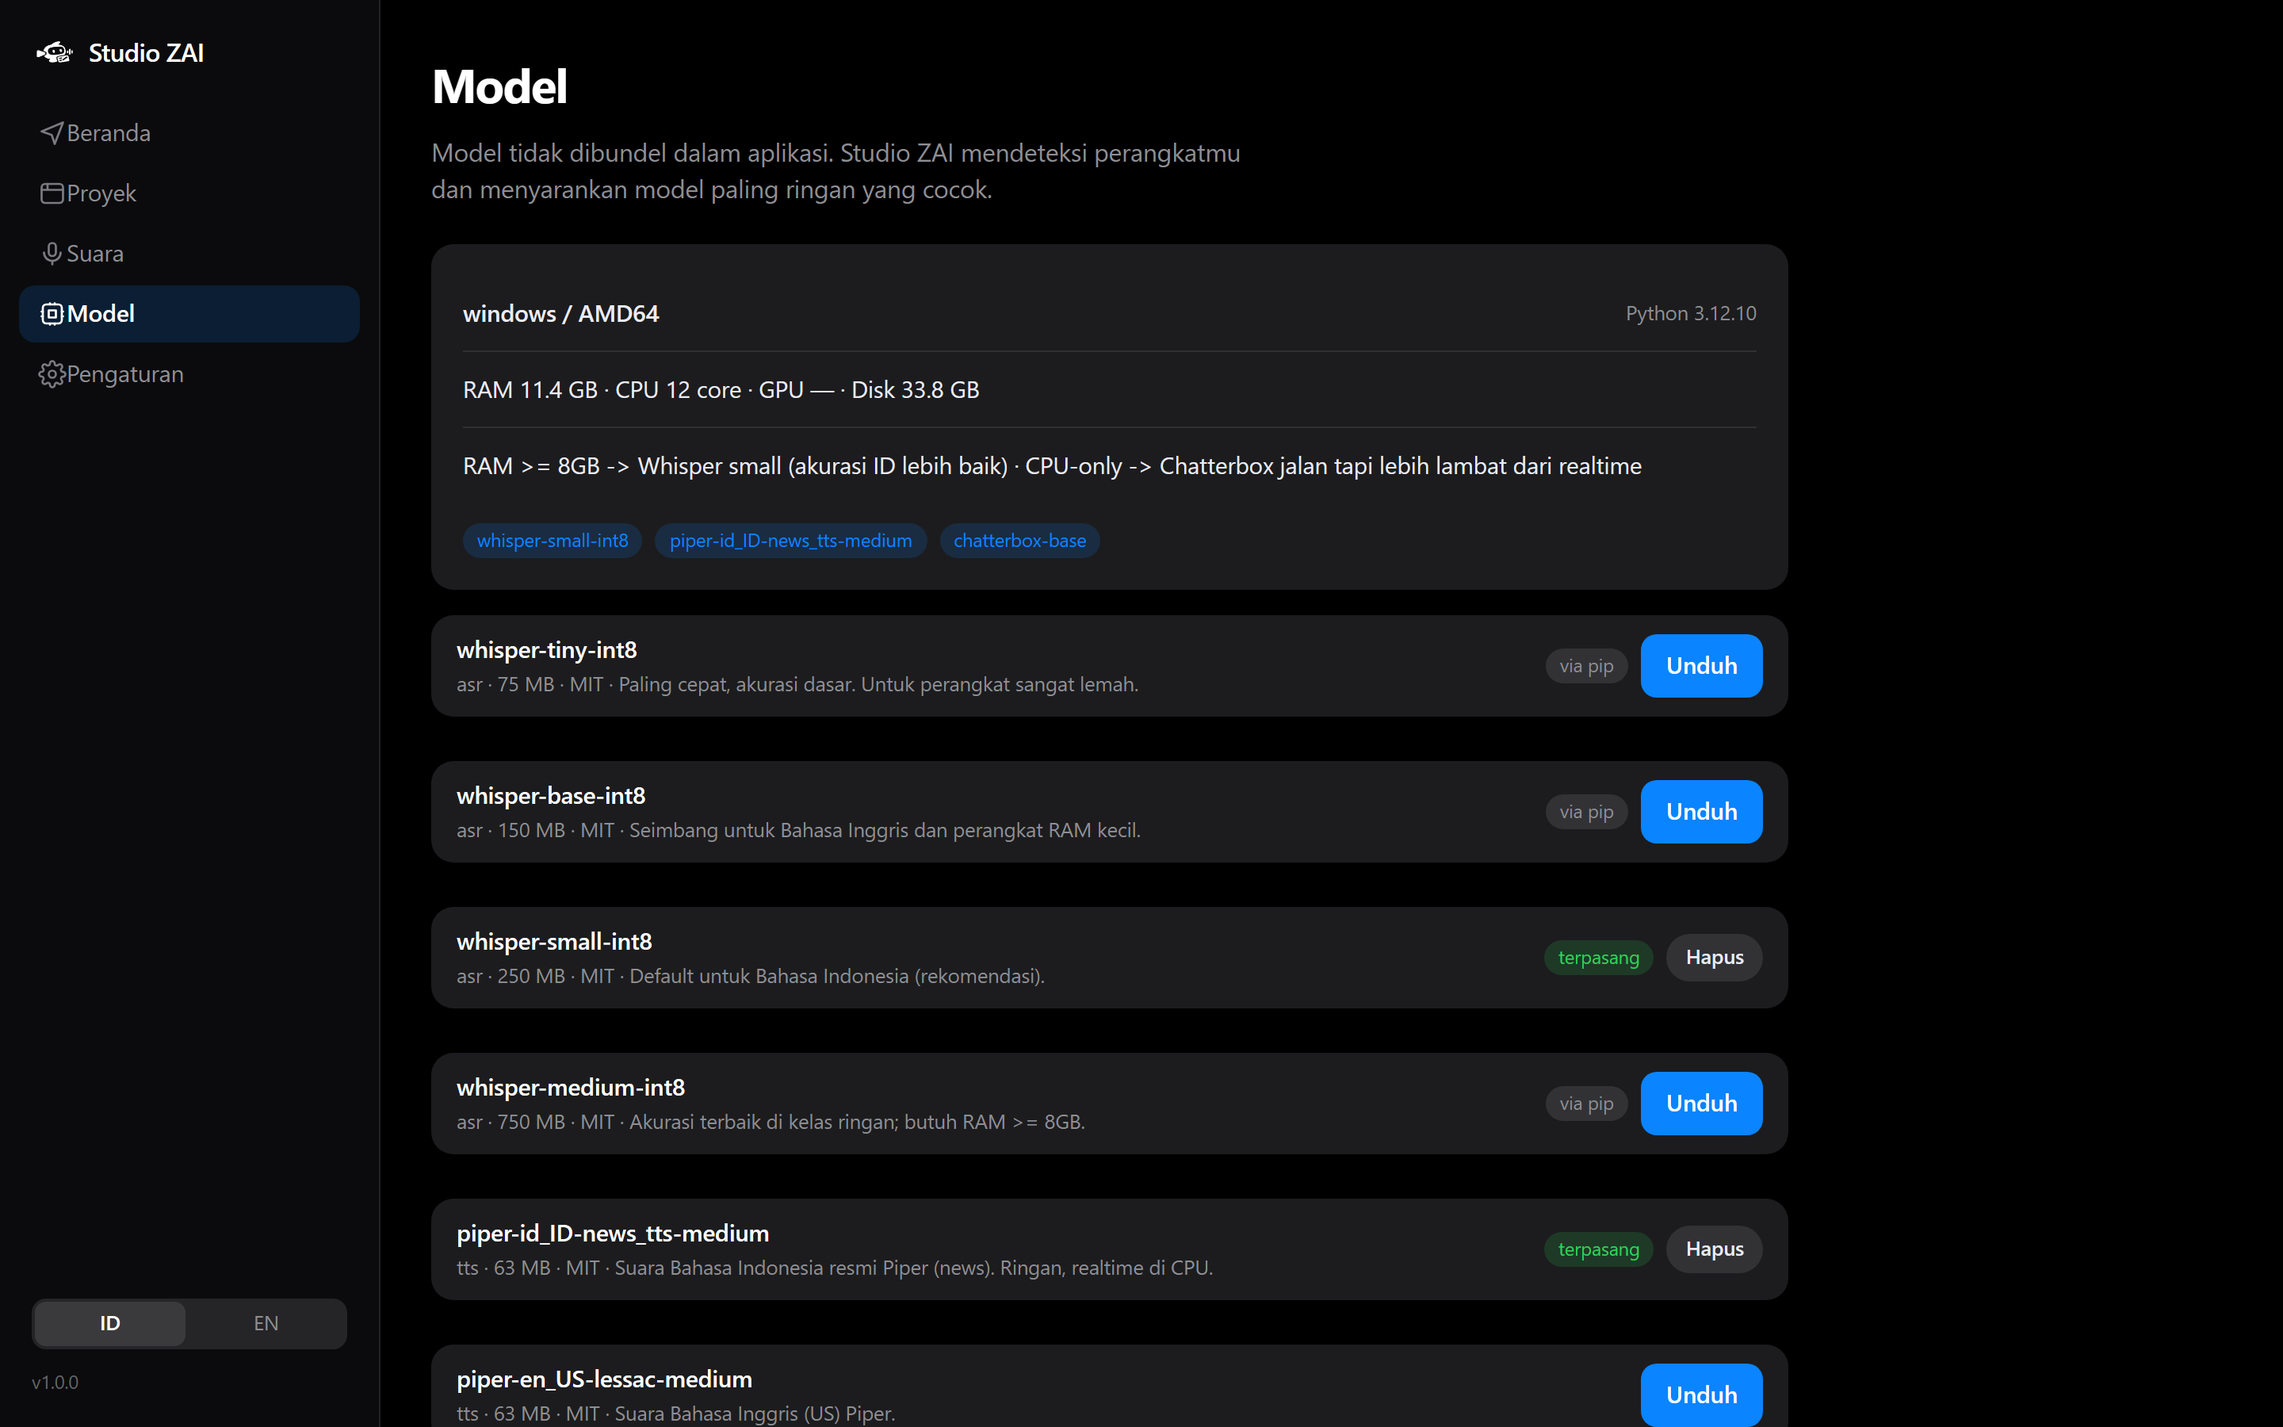
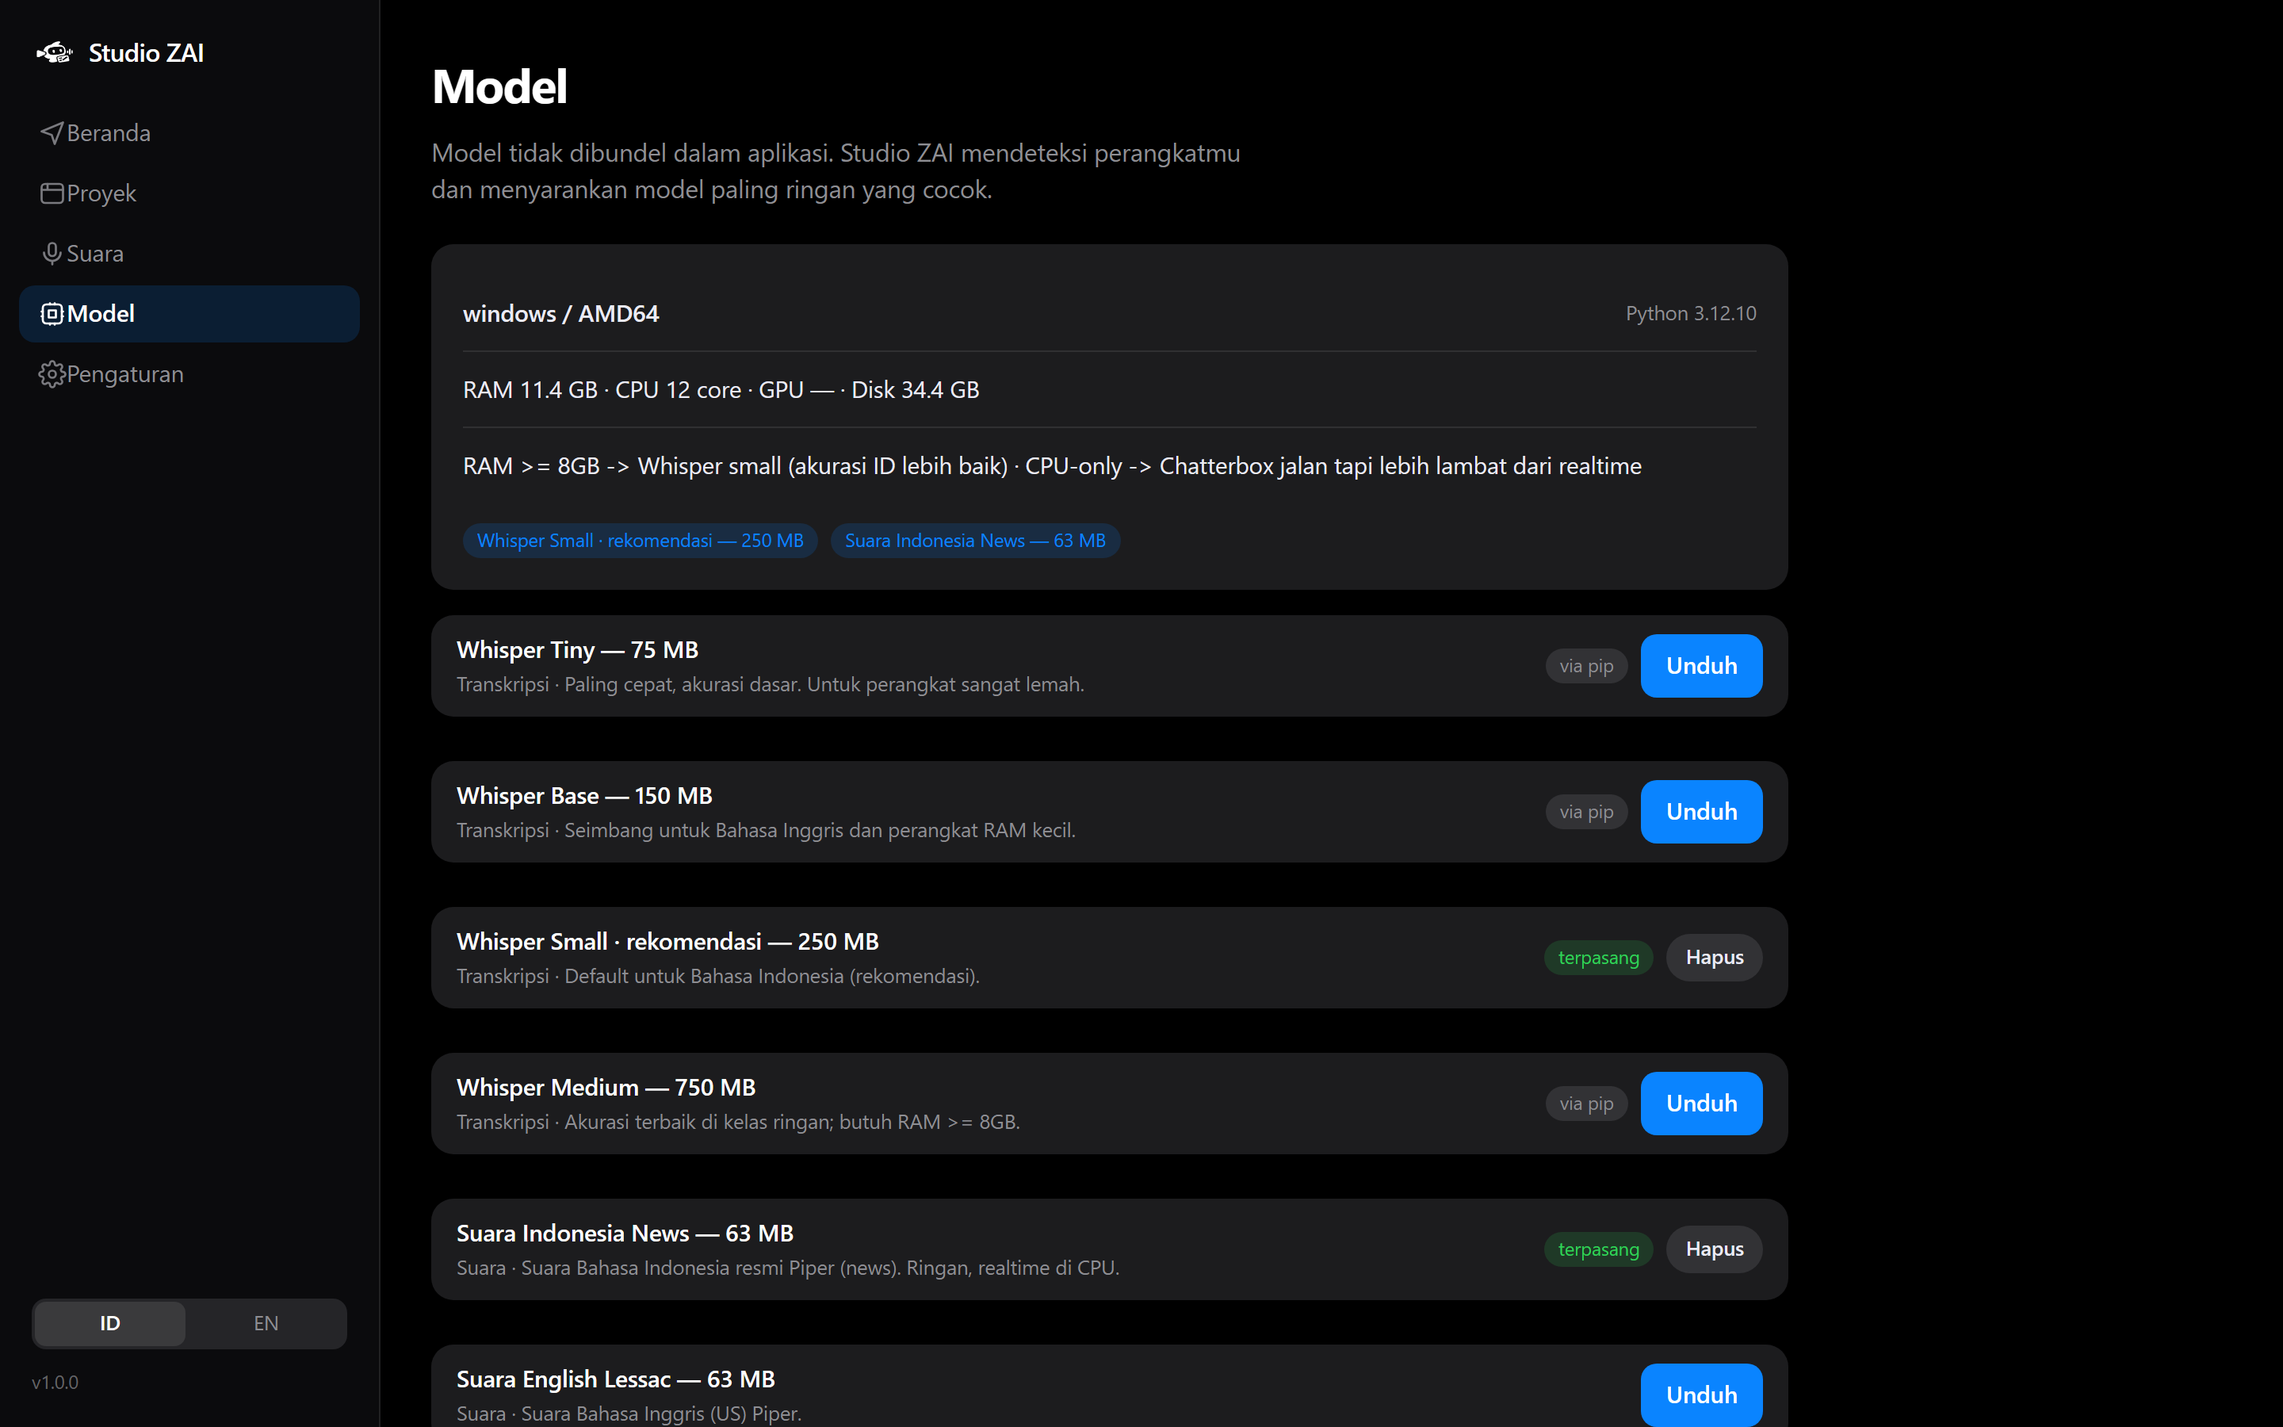
UI tanpa emoji + nama model natural + build fix

diff --git a/ui/app.js b/ui/app.js
@@ -22,6 +22,8 @@ const I18N = {
     "models.title": "Model",
     "models.lead": "Model tidak dibundel dalam aplikasi. Studio ZAI mendeteksi perangkatmu dan menyarankan model paling ringan yang cocok.",
     "models.download": "Unduh", "models.remove": "Hapus", "models.installed": "terpasang", "models.pip": "via pip",
+    "models.recommended": "rekomendasi",
+    "models.kindAsr": "Transkripsi", "models.kindTts": "Suara", "models.kindClone": "Kloning suara",
     "settings.title": "Pengaturan", "settings.lang": "Bahasa antarmuka", "settings.asr": "Model transkripsi default",
     "settings.tts": "Suara Indonesia default", "settings.clone": "Model kloning default", "settings.crop": "Mode crop default",
     "settings.cookies": "cookies.txt (opsional, untuk video privat)",
@@ -57,6 +59,8 @@ const I18N = {
     "models.title": "Models",
     "models.lead": "Models are not bundled. Studio ZAI detects your device and recommends the lightest matching models.",
     "models.download": "Download", "models.remove": "Remove", "models.installed": "installed", "models.pip": "via pip",
+    "models.recommended": "recommended",
+    "models.kindAsr": "Transcription", "models.kindTts": "Voice", "models.kindClone": "Voice cloning",
     "settings.title": "Settings", "settings.lang": "Interface language", "settings.asr": "Default transcription model",
     "settings.tts": "Default Indonesian voice", "settings.clone": "Default cloning model", "settings.crop": "Default crop mode",
     "settings.cookies": "cookies.txt (optional, for private videos)",
@@ -311,7 +315,7 @@ function showLinkPreview(info) {
   box.innerHTML = `
     <div class="row settings">
       <div style="display:grid;gap:2px;min-width:0">
-        <span style="font-weight:600">✓ ${t("home.linkReady")}</span>
+        <span style="font-weight:600"><svg class="ico" viewBox="0 0 24 24" fill="none" stroke="currentColor" stroke-width="2.4" stroke-linecap="round" stroke-linejoin="round" style="width:14px;height:14px;vertical-align:-2px"><path d="M20 6 9 17l-5-5"/></svg> ${t("home.linkReady")}</span>
         <span class="muted">${info.title} · ${fmtDuration(info.duration)}${info.uploader ? " · " + info.uploader : ""}</span>
       </div>
     </div>`;
@@ -323,7 +327,7 @@ function showLinkError(message) {
   wrap.style.display = "flex";
   $("#qualityWrap").style.display = "none";
   linkInfoCache = null;
-  box.innerHTML = `<span class="muted">✗ ${t("home.linkFail")}: ${message}</span>`;
+  box.innerHTML = `<span class="muted"><svg class="ico" viewBox="0 0 24 24" fill="none" stroke="currentColor" stroke-width="2.2" stroke-linecap="round" style="width:14px;height:14px;vertical-align:-2px"><circle cx="12" cy="12" r="9"/><path d="M12 8v4M12 16h.01"/></svg> ${t("home.linkFail")}: ${message}</span>`;
 }
 
 function hideLinkPreview() {
@@ -344,7 +348,7 @@ function onSourceChanged() {
     wrap.style.display = "flex";
     $("#qualityWrap").style.display = "none";
     linkInfoCache = null;
-    box.innerHTML = `<span class="muted">✓ ${t("home.localReady")}: ${fileName(value)}</span>`;
+    box.innerHTML = `<span class="muted"><svg class="ico" viewBox="0 0 24 24" fill="none" stroke="currentColor" stroke-width="2.4" stroke-linecap="round" stroke-linejoin="round" style="width:14px;height:14px;vertical-align:-2px"><path d="M20 6 9 17l-5-5"/></svg> ${t("home.localReady")}: ${fileName(value)}</span>`;
     return;
   }
   // debounce 800ms supaya tidak request tiap ketikan
@@ -657,10 +661,17 @@ function closePanel() {
 
 /* ------------------------------------------------------------------ voice */
 
+function voiceLabel(id) {
+  const fake = { id, size_mb: null, note: "", langs: [] };
+  if (id.includes("id_ID")) fake.langs = ["id"];
+  else if (id.includes("en_")) fake.langs = ["en"];
+  return modelName(fake);
+}
+
 function renderVoice() {
   const select = $("#ttsVoice");
   const available = state.voices.piper || [];
-  select.innerHTML = available.map((id) => `<option value="${id}">${id}</option>`).join("");
+  select.innerHTML = available.map((id) => `<option value="${id}">${voiceLabel(id)}</option>`).join("");
   select.disabled = available.length === 0;
   const ttsBtn = $("#ttsBtn");
   if (ttsBtn) {
@@ -704,11 +715,40 @@ async function runClone() {
 
 /* ------------------------------------------------------------------ models */
 
+/* Nama tampilan natural untuk id teknis model (tanpa underscore/dash = no AI slop) */
+function modelName(model) {
+  const id = model.id || "";
+  const size = model.size_mb ? ` · ${model.size_mb} MB` : "";
+  if (id.startsWith("whisper-")) {
+    const tierName = id.replace("whisper-", "").replace("-int8", "");
+    const label = { tiny: "Tiny", base: "Base", small: "Small", medium: "Medium" }[tierName] || tierName;
+    const rec = /indonesia/i.test(model.note || "") ? ` · ${t("models.recommended")}` : "";
+    return `Whisper ${label}${rec}${size ? ` — ${model.size_mb} MB` : ""}`;
+  }
+  if (id.startsWith("piper-")) {
+    const lang = (model.langs || [])[0] === "id" ? "Indonesia" : (model.langs || [])[0] === "en" ? "English" : "";
+    const voice = id.includes("news_tts") ? "News" : id.includes("lessac") ? "Lessac" : id.includes("alba") ? "Alba" : "";
+    return `Suara ${lang}${voice ? ` ${voice}` : ""} — ${model.size_mb ?? "?"} MB`;
+  }
+  if (id === "chatterbox-base") return `Kloning Suara EN — ${model.size_mb ?? "?"} MB`;
+  if (id === "chatterbox-id-finetune") return `Kloning Suara Indonesia — ${model.size_mb ?? "?"} MB`;
+  if (id === "zipvoice-zh-en") return `Kloning Ringan EN — ${model.size_mb ?? "?"} MB`;
+  if (id === "chatterbox-gguf-q4") return `Kloning Eksperimental — ${model.size_mb ?? "?"} MB`;
+  if (id === "mms-tts-ind") return `Suara Indonesia Alternatif — ${model.size_mb ?? "?"} MB`;
+  return `${id}${size}`;
+}
+
+function kindName(kind) {
+  return kind === "asr" ? t("models.kindAsr") : kind === "tts" ? t("models.kindTts") : t("models.kindClone");
+}
+
 async function renderModels() {
   try {
     const data = await api("/api/models");
     const hardware = data.hardware;
     const tier = data.tier;
+    const asrRec = (data.models || []).find((m) => m.id === tier.asr);
+    const ttsRec = (data.models || []).find((m) => m.id === tier.tts);
     $("#hardwareCard").innerHTML = `
       <div class="row settings" style="border-bottom:1px solid var(--separator)">
         <span style="font-weight:600">${hardware.os} / ${hardware.arch}</span>
@@ -721,16 +761,15 @@ async function renderModels() {
         <span class="muted">${tier.reasons.join(" · ")}</span>
       </div>
       <div class="row" style="gap:var(--s2);margin-top:var(--s3)">
-        <span class="badge info">${tier.asr}</span>
-        <span class="badge info">${tier.tts}</span>
-        ${tier.clone ? `<span class="badge info">${tier.clone}</span>` : ""}
+        ${asrRec ? `<span class="badge info">${modelName(asrRec)}</span>` : ""}
+        ${ttsRec ? `<span class="badge info">${modelName(ttsRec)}</span>` : ""}
       </div>`;
     $("#modelList").innerHTML = data.models.map((model) => `
       <div class="card tight">
         <div class="row settings">
           <div style="display:grid;gap:2px;min-width:0">
-            <span style="font-weight:600">${model.id}</span>
-            <span class="muted">${model.kind} · ${model.size_mb ?? "?"} MB · ${model.license}${model.note ? " · " + model.note : ""}</span>
+            <span style="font-weight:600">${modelName(model)}</span>
+            <span class="muted">${kindName(model.kind)}${model.note ? " · " + model.note : ""}</span>
           </div>
           <div class="row" style="gap:var(--s2)">
             ${model.installed ? `<span class="badge ok">${t("models.installed")}</span>` : (model.requires_pip ? `<span class="badge">${t("models.pip")}</span>` : "")}
@@ -762,12 +801,17 @@ async function renderSettings() {
   if (!state.voices.piper) await loadVoices();
   const settings = state.settings;
   $("#setLang").value = state.lang;
-  $("#setAsr").innerHTML = ["whisper-tiny-int8", "whisper-base-int8", "whisper-small-int8", "whisper-medium-int8"]
-    .map((id) => `<option ${settings.asr_model === id ? "selected" : ""}>${id}</option>`).join("");
-  $("#setTts").innerHTML = state.voices.piper.filter((id) => id.includes("id_ID"))
-    .map((id) => `<option ${settings.tts_voice_id === id ? "selected" : ""}>${id}</option>`).join("");
-  $("#setClone").innerHTML = state.voices.clone
-    .map((id) => `<option ${settings.clone_model === id ? "selected" : ""}>${id}</option>`).join("");
+  const asrIds = ["whisper-tiny-int8", "whisper-base-int8", "whisper-small-int8", "whisper-medium-int8"];
+  $("#setAsr").innerHTML = asrIds
+    .map((id) => `<option value="${id}" ${settings.asr_model === id ? "selected" : ""}>${voiceLabel(id)}</option>`).join("");
+  const ttsIds = state.voices.piper.filter((id) => id.includes("id_ID"));
+  $("#setTts").innerHTML = (ttsIds.length ? ttsIds : [""]).map((id) => id
+    ? `<option value="${id}" ${settings.tts_voice_id === id ? "selected" : ""}>${voiceLabel(id)}</option>`
+    : `<option value="">— belum ada —</option>`).join("");
+  const cloneIds = state.voices.clone || [];
+  $("#setClone").innerHTML = (cloneIds.length ? cloneIds : [""]).map((id) => id
+    ? `<option value="${id}" ${settings.clone_model === id ? "selected" : ""}>${voiceLabel(id)}</option>`
+    : `<option value="">— belum ada —</option>`).join("");
   $("#setCrop").value = settings.crop || "center";
   $("#setCookies").value = settings.cookies_path || "";
   $("#setLlmUrl").value = settings.llm_base_url || "";
@@ -859,20 +903,26 @@ function wizardShowRecommend() {
 
   const rows = wizard.models.map((model) => {
     const rec = wizard.chosen.includes(model.id);
-    const mark = model.kind === "asr" ? "🎙" : model.kind === "tts" ? "🔊" : "🧬";
+    const markSvg = model.kind === "asr"
+      ? '<svg class="ico" viewBox="0 0 24 24" fill="none" stroke="currentColor" stroke-width="1.8" stroke-linecap="round" stroke-linejoin="round" style="width:16px;height:16px;vertical-align:-3px"><rect x="9" y="3" width="6" height="11" rx="3"/><path d="M5 11a7 7 0 0 0 14 0M12 18v3"/></svg>'
+      : model.kind === "tts"
+        ? '<svg class="ico" viewBox="0 0 24 24" fill="none" stroke="currentColor" stroke-width="1.8" stroke-linecap="round" stroke-linejoin="round" style="width:16px;height:16px;vertical-align:-3px"><path d="M11 5 6 9H3v6h3l5 4zM15.5 8.5a5 5 0 0 1 0 7M18.5 5.5a9 9 0 0 1 0 13"/></svg>'
+        : '<svg class="ico" viewBox="0 0 24 24" fill="none" stroke="currentColor" stroke-width="1.8" stroke-linecap="round" stroke-linejoin="round" style="width:16px;height:16px;vertical-align:-3px"><path d="M12 3v3M12 18v3M3 12h3M18 12h3M5.6 5.6l2.1 2.1M16.3 16.3l2.1 2.1M5.6 18.4l2.1-2.1M16.3 7.7l2.1-2.1"/></svg>';
     return `
     <label class="wizard-body-row" style="cursor:pointer">
       <input type="checkbox" data-model="${model.id}" ${rec ? "checked" : ""} ${model.installed ? "disabled" : ""} />
       <span class="label">
-        ${mark} ${model.id}
-        <span class="sub">${model.size_mb ?? "?"} MB · ${model.note || ""}</span>
+        ${markSvg} ${modelName(model)}
+        <span class="sub">${model.note || ""}</span>
       </span>
-      ${model.installed ? `<span class="stage-pill" style="background:rgba(48,209,88,.16);color:var(--green)">✓</span>` : ""}
+      ${model.installed ? `<span class="stage-pill" style="background:rgba(48,209,88,.16);color:var(--green)"><svg class="ico" viewBox="0 0 24 24" fill="none" stroke="currentColor" stroke-width="2.6" stroke-linecap="round" stroke-linejoin="round" style="width:12px;height:12px"><path d="M20 6 9 17l-5-5"/></svg></span>` : ""}
     </label>`;
   }).join("");
 
+  const recAsr = wizard.models.find((m) => m.id === tier.asr);
+  const recTts = wizard.models.find((m) => m.id === tier.tts);
   $("#wizardBody").innerHTML = `
-    <p class="muted" style="text-align:left;margin:0 0 var(--s3)">Rekomendasi untuk perangkatmu: <strong>${tier.asr}</strong> + <strong>${tier.tts}</strong></p>
+    <p class="muted" style="text-align:left;margin:0 0 var(--s3)">Rekomendasi untuk perangkatmu: <strong>${recAsr ? modelName(recAsr) : tier.asr}</strong> + <strong>${recTts ? modelName(recTts) : tier.tts}</strong></p>
     ${rows}`;
   $("#wizardActions").innerHTML = `
     <button class="primary" id="wzInstall">Unduh & pasang</button>
@@ -902,14 +952,17 @@ async function wizardInstall() {
   $("#wizardActions").innerHTML = "";
 
   const body = $("#wizardBody");
-  body.innerHTML = toInstall.map((id) => `
+  body.innerHTML = toInstall.map((id) => {
+    const model = wizard.models.find((m) => m.id === id);
+    return `
     <div class="wizard-body-row" data-row="${id}">
       <span class="dot" data-dot="${id}">…</span>
-      <span class="label">${id}
+      <span class="label">${model ? modelName(model) : id}
         <div class="wizard-progress"><span data-bar="${id}" style="width:0%"></span></div>
       </span>
       <span class="muted" data-pct="${id}">0%</span>
-    </div>`).join("");
+    </div>`;
+  }).join("");
 
   for (const id of toInstall) {
     await wizardDownloadModel(id);
@@ -943,7 +996,7 @@ function wizardDownloadModel(id) {
             if (pct) pct.textContent = "gagal";
             if (bar) bar.style.background = "var(--red)";
           } else {
-            if (dot) { dot.classList.remove("run"); dot.classList.add("ok"); dot.textContent = "✓"; }
+            if (dot) { dot.classList.remove("run"); dot.classList.add("ok"); dot.innerHTML = '<svg class="ico" viewBox="0 0 24 24" fill="none" stroke="currentColor" stroke-width="2.6" stroke-linecap="round" stroke-linejoin="round" style="width:13px;height:13px"><path d="M20 6 9 17l-5-5"/></svg>'; }
             if (bar) bar.style.width = "100%";
             if (pct) pct.textContent = "100%";
           }
@@ -956,7 +1009,7 @@ function wizardDownloadModel(id) {
 }
 
 async function wizardFinish() {
-  $("#wizardTitle").textContent = "Siap dipakai 🎉";
+  $("#wizardTitle").textContent = "Siap dipakai";
   $("#wizardSub").textContent = "Model terpasang. Semua fitur inti jalan lokal dan offline.";
   $("#wizardBody").innerHTML = "";
   $("#wizardActions").innerHTML = `<button class="primary" id="wzGo">Mulai pakai</button>`;

diff --git a/tools/zip_exe.py b/tools/zip_exe.py
@@ -1,8 +1,10 @@
 import os
 import shutil
+import sys
 
+version = sys.argv[1] if len(sys.argv) > 1 else "1.3.0"
 root = os.getcwd()
-base = os.path.join(root, "dist", "StudioZAI-1.2.0-windows-x64")
+base = os.path.join(root, "dist", f"StudioZAI-{version}-windows-x64")
 zp = base + ".zip"
 if os.path.exists(zp):
     os.remove(zp)
